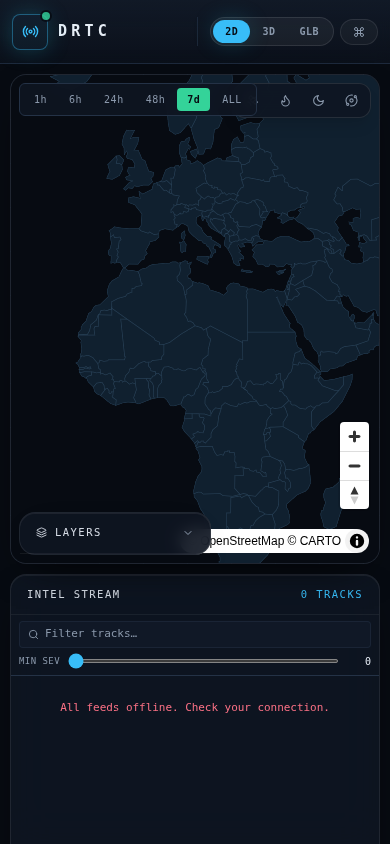
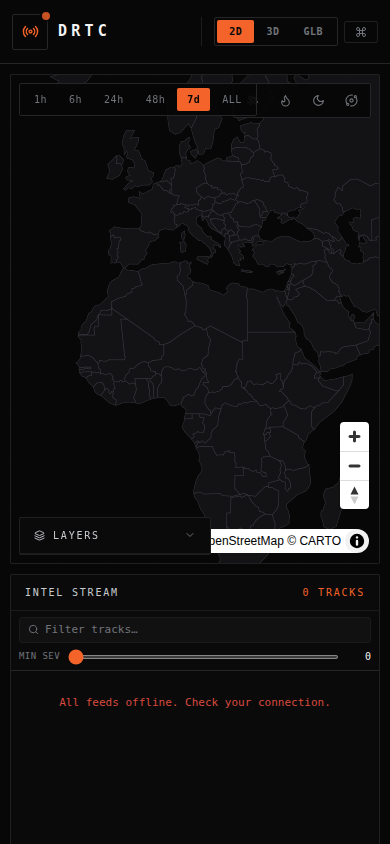
Restyle to a flat black command aesthetic (SentriX-inspired)
Style-only pass, no logic changes:
- Pure black background, flat panels with hairline borders and sharp corners
  (rounded-sm); removed the glass blur, ambient glow, and heavy shadows
- Single orange accent (#f4642a) for active controls, toggles, the time-range
  selection, and highlights; chrome is otherwise monochrome
- Neutralized the basemap (near-black land, gray borders, neutral sky/fog)
  and the popup/gauge-track colors
- Flattened controls (hairline, square, uppercase mono) and the header
  (removed gradient/glow)
- Kept functional status colors (online/offline, severity) for legibility

Verified: typecheck, lint, 33 tests, build, screenshots at 390/820/1440.

Claude-Session: https://claude.ai/code/session_014cXPwLmXUsC7GzjtSfr6jK

diff --git a/src/index.css b/src/index.css
@@ -14,26 +14,25 @@ body,
 }
 
 body {
-  background-color: #070b12;
-  /* layered ambient glow for depth */
-  background-image:
-    radial-gradient(1200px 700px at 80% -12%, rgba(56, 189, 248, 0.1), transparent 60%),
-    radial-gradient(1000px 620px at 6% 112%, rgba(52, 211, 153, 0.06), transparent 55%);
-  background-attachment: fixed;
-  color: #e6edf5;
-  font-family: -apple-system, BlinkMacSystemFont, 'SF Pro Text', 'Inter', system-ui, sans-serif;
+  background-color: #070707;
+  color: #f3f4f5;
+  font-family:
+    'Inter',
+    -apple-system,
+    BlinkMacSystemFont,
+    system-ui,
+    sans-serif;
   -webkit-font-smoothing: antialiased;
   text-rendering: optimizeLegibility;
-  letter-spacing: -0.003em;
   overflow: hidden;
 }
 
-/* Subtle grid backdrop for the map/globe stage */
+/* Faint technical grid behind the map/globe stage */
 .cmd-grid {
   background-image:
-    linear-gradient(rgba(56, 189, 248, 0.03) 1px, transparent 1px),
-    linear-gradient(90deg, rgba(56, 189, 248, 0.03) 1px, transparent 1px);
-  background-size: 44px 44px;
+    linear-gradient(rgba(255, 255, 255, 0.022) 1px, transparent 1px),
+    linear-gradient(90deg, rgba(255, 255, 255, 0.022) 1px, transparent 1px);
+  background-size: 48px 48px;
 }
 
 /* Scrollbars */
@@ -45,63 +44,55 @@ body {
   background: transparent;
 }
 *::-webkit-scrollbar-thumb {
-  background: rgba(255, 255, 255, 0.14);
-  border-radius: 999px;
+  background: rgba(255, 255, 255, 0.12);
+  border-radius: 0;
 }
 *::-webkit-scrollbar-thumb:hover {
-  background: rgba(255, 255, 255, 0.24);
+  background: rgba(255, 255, 255, 0.22);
 }
 
 *:focus-visible {
-  outline: 2px solid rgba(56, 189, 248, 0.55);
+  outline: 1px solid rgba(244, 100, 42, 0.7);
   outline-offset: 1px;
 }
 
 @layer components {
-  /* Liquid-glass surface */
+  /* Flat technical surface — pure black card with a hairline border */
   .panel {
-    @apply relative flex flex-col min-h-0 rounded-2xl;
-    background: rgba(18, 26, 40, 0.6);
-    backdrop-filter: blur(22px) saturate(150%);
-    -webkit-backdrop-filter: blur(22px) saturate(150%);
-    border: 1px solid rgba(255, 255, 255, 0.08);
-    box-shadow:
-      inset 0 1px 0 rgba(255, 255, 255, 0.07),
-      0 16px 40px -20px rgba(0, 0, 0, 0.85);
+    @apply relative flex flex-col min-h-0 rounded-sm;
+    background: #0a0a0b;
+    border: 1px solid rgba(255, 255, 255, 0.09);
   }
 
   .panel-header {
-    @apply flex items-center justify-between px-4 py-3 text-[10.5px] uppercase font-mono font-medium shrink-0;
-    letter-spacing: 0.14em;
-    color: #93a1b4;
-    border-bottom: 1px solid rgba(255, 255, 255, 0.06);
+    @apply flex items-center justify-between px-3.5 py-2.5 text-[10px] uppercase font-mono font-medium shrink-0;
+    letter-spacing: 0.18em;
+    color: #6c6f76;
+    border-bottom: 1px solid rgba(255, 255, 255, 0.07);
   }
   .panel-header > span:first-child {
     @apply flex items-center gap-2;
-    color: rgba(230, 237, 245, 0.92);
+    color: #c7cacf;
   }
 
   .stat-chip {
-    @apply font-mono text-[10px] uppercase tracking-wider px-1.5 py-0.5 rounded-md border;
+    @apply font-mono text-[10px] uppercase tracking-wider px-1.5 py-0.5 rounded-sm border;
   }
 
-  /* iOS-style pill control */
+  /* Flat hairline control */
   .ctl {
-    @apply flex items-center gap-1.5 px-3 py-1.5 rounded-full font-mono text-[11px] tracking-wide
-      text-cmd-dim transition-all duration-200;
-    border: 1px solid rgba(255, 255, 255, 0.09);
-    background: rgba(255, 255, 255, 0.04);
+    @apply flex items-center gap-1.5 px-2.5 py-1 rounded-sm font-mono text-[11px] uppercase tracking-wider
+      text-cmd-dim transition-colors duration-150;
+    border: 1px solid rgba(255, 255, 255, 0.1);
+    background: transparent;
   }
   .ctl:hover {
-    @apply text-cmd-text;
-    border-color: rgba(56, 189, 248, 0.5);
-    background: rgba(56, 189, 248, 0.1);
-  }
-  .ctl:active {
-    transform: scale(0.96);
+    color: #f3f4f5;
+    border-color: rgba(244, 100, 42, 0.6);
+    background: rgba(244, 100, 42, 0.08);
   }
 
   .glow-text {
-    text-shadow: 0 0 12px currentColor;
+    text-shadow: none;
   }
 }

diff --git a/tailwind.config.js b/tailwind.config.js
@@ -17,22 +17,22 @@ export default {
       },
       colors: {
         cmd: {
-          bg: '#070b12',
-          panel: '#0e1521',
-          panel2: '#141d2c',
-          border: '#243246',
-          grid: '#11202c',
-          text: '#e6edf5',
-          dim: '#8a98ab',
-          accent: '#38bdf8',
-          green: '#34d399',
-          amber: '#fbbf24',
-          red: '#fb7185',
-          magenta: '#e879f9',
+          bg: '#070707',
+          panel: '#0c0c0d',
+          panel2: '#161617',
+          border: '#262629',
+          grid: '#19191b',
+          text: '#f3f4f5',
+          dim: '#71747a',
+          accent: '#f4642a',
+          green: '#46a883',
+          amber: '#cf9a40',
+          red: '#d94a3d',
+          magenta: '#b8704a',
         },
       },
       boxShadow: {
-        glow: '0 0 24px -4px rgba(34,211,238,0.35)',
+        glow: '0 0 18px -6px rgba(242,90,42,0.4)',
       },
       keyframes: {
         ping2: {

diff --git a/src/components/Header.tsx b/src/components/Header.tsx
@@ -35,14 +35,14 @@ export default function Header() {
   const color = LEVEL_COLOR[threat.level]
 
   return (
-    <header className="shrink-0 h-16 flex items-center justify-between px-3 sm:px-5 border-b border-cmd-border/70 bg-gradient-to-b from-cmd-panel2/80 to-cmd-panel/60 backdrop-blur">
+    <header className="shrink-0 h-16 flex items-center justify-between px-3 sm:px-5 border-b border-cmd-border bg-cmd-bg">
       {/* Brand */}
       <div className="flex items-center gap-2.5 sm:gap-3.5 min-w-0">
         <div className="relative shrink-0">
-          <div className="w-9 h-9 rounded-lg border border-cmd-accent/40 bg-cmd-accent/5 flex items-center justify-center shadow-glow">
+          <div className="w-9 h-9 rounded-sm border border-cmd-border flex items-center justify-center">
             <Radio size={17} className="text-cmd-accent" />
           </div>
-          <span className="absolute -top-0.5 -right-0.5 w-2 h-2 rounded-full bg-cmd-green ring-2 ring-cmd-bg animate-flicker" />
+          <span className="absolute -top-0.5 -right-0.5 w-2 h-2 rounded-full bg-cmd-accent ring-2 ring-cmd-bg animate-flicker" />
         </div>
         <div className="leading-tight min-w-0">
           <div className="font-mono font-bold tracking-[0.28em] text-cmd-text text-[15px]">
@@ -61,13 +61,8 @@ export default function Header() {
             CONDITION
           </span>
           <div
-            className="flex items-center gap-2 px-3.5 py-1.5 rounded-full border font-mono"
-            style={{
-              borderColor: `${color}55`,
-              color,
-              background: `${color}14`,
-              boxShadow: `0 0 20px -6px ${color}`,
-            }}
+            className="flex items-center gap-2 px-3 py-1.5 rounded-sm border font-mono"
+            style={{ borderColor: `${color}66`, color, background: `${color}12` }}
           >
             <Activity size={13} />
             <span className="text-sm font-bold tracking-wide glow-text">
@@ -96,7 +91,7 @@ export default function Header() {
         {/* Controls */}
         <div className="flex items-center gap-1.5 sm:gap-2 border-l border-cmd-border/70 pl-3 sm:pl-5">
           {/* view toggle */}
-          <div className="flex items-center p-0.5 rounded-full border border-white/10 bg-white/5">
+          <div className="flex items-center p-0.5 rounded-sm border border-cmd-border">
             {(
               [
                 ['2d', '2D'],
@@ -110,10 +105,8 @@ export default function Header() {
                 title={
                   m === '3d' ? '3D terrain map' : m === 'globe' ? 'Stylized globe' : 'Flat map'
                 }
-                className={`px-3 py-1 rounded-full font-mono text-[10px] font-bold tracking-wider transition-all duration-200 ${
-                  viewMode === m
-                    ? 'bg-cmd-accent text-cmd-bg shadow-glow'
-                    : 'text-cmd-dim hover:text-cmd-text'
+                className={`px-3 py-1 rounded-sm font-mono text-[10px] font-bold tracking-wider transition-colors duration-150 ${
+                  viewMode === m ? 'bg-cmd-accent text-cmd-bg' : 'text-cmd-dim hover:text-cmd-text'
                 }`}
               >
                 {label}

diff --git a/src/components/MapView.tsx b/src/components/MapView.tsx
@@ -45,13 +45,13 @@ export default function MapView() {
 
     map.on('load', () => {
       map.setSky({
-        'sky-color': '#0a1420',
-        'horizon-color': '#0d1f2c',
-        'fog-color': '#070b12',
+        'sky-color': '#0c0c0e',
+        'horizon-color': '#161618',
+        'fog-color': '#070707',
         'sky-horizon-blend': 0.5,
         'horizon-fog-blend': 0.5,
         'fog-ground-blend': 0.5,
-        'atmosphere-blend': ['interpolate', ['linear'], ['zoom'], 0, 0.8, 6, 0],
+        'atmosphere-blend': ['interpolate', ['linear'], ['zoom'], 0, 0.7, 6, 0],
       })
       addDataLayers(map)
       readyRef.current = true
@@ -70,8 +70,8 @@ export default function MapView() {
         popupRef.current
           ?.setLngLat((f.geometry as GeoJSON.Point).coordinates as [number, number])
           .setHTML(
-            `<div style="font-family:'JetBrains Mono',monospace;font-size:11px;color:#d4dde8;max-width:200px">
-               <b>${p.title}</b><div style="color:#6b7c90;font-size:10px">${p.cat} · SEV ${p.sev}</div></div>`,
+            `<div style="font-family:'JetBrains Mono',monospace;font-size:11px;color:#f3f4f5;max-width:200px">
+               <b>${p.title}</b><div style="color:#71747a;font-size:10px">${p.cat} · SEV ${p.sev}</div></div>`,
           )
           .addTo(map)
       }

diff --git a/src/components/LayerLegend.tsx b/src/components/LayerLegend.tsx
@@ -21,12 +21,10 @@ export default function LayerLegend() {
   const toggle = useStore((s) => s.toggleCategory)
   // Collapsed by default on small screens so it doesn't overlap the event card
   // on a short map; expanded on the roomy desktop layout.
-  const [open, setOpen] = useState(
-    () => typeof window !== 'undefined' && window.innerWidth >= 1280,
-  )
+  const [open, setOpen] = useState(() => typeof window !== 'undefined' && window.innerWidth >= 1280)
 
   return (
-    <div className="absolute bottom-2 left-2 z-10 w-48 panel bg-cmd-panel/90 backdrop-blur">
+    <div className="absolute bottom-2 left-2 z-10 w-48 panel">
       <button
         onClick={() => setOpen((o) => !o)}
         className="panel-header w-full hover:text-cmd-text"

diff --git a/src/components/TimeRange.tsx b/src/components/TimeRange.tsx
@@ -5,16 +5,16 @@ export default function TimeRange() {
   const setTimeRange = useStore((s) => s.setTimeRange)
 
   return (
-    <div className="absolute top-2 left-2 z-10 flex items-center gap-0.5 p-1 rounded-md bg-cmd-panel/90 backdrop-blur border border-cmd-border">
+    <div className="absolute top-2 left-2 z-10 flex items-center gap-0.5 p-1 rounded-sm bg-cmd-bg/90 border border-cmd-border">
       {TIME_RANGES.map((r) => {
         const on = r.key === timeRange
         return (
           <button
             key={r.key}
             onClick={() => setTimeRange(r.key)}
-            className={`px-2.5 py-1 rounded font-mono text-[10px] tracking-wider transition-colors ${
+            className={`px-2.5 py-1 rounded-sm font-mono text-[10px] tracking-wider transition-colors ${
               on
-                ? 'bg-cmd-green text-cmd-bg font-bold'
+                ? 'bg-cmd-accent text-cmd-bg font-bold'
                 : 'text-cmd-dim hover:text-cmd-text hover:bg-cmd-panel2'
             }`}
           >

diff --git a/src/components/map/mapStyle.ts b/src/components/map/mapStyle.ts
@@ -37,13 +37,13 @@ export const STYLE: StyleSpecification = {
     world: { type: 'geojson', data: '/world.geo.json' },
   },
   layers: [
-    { id: 'bg', type: 'background', paint: { 'background-color': '#070b12' } },
-    { id: 'land', type: 'fill', source: 'world', paint: { 'fill-color': '#10202f' } },
+    { id: 'bg', type: 'background', paint: { 'background-color': '#070707' } },
+    { id: 'land', type: 'fill', source: 'world', paint: { 'fill-color': '#131315' } },
     {
       id: 'land-border',
       type: 'line',
       source: 'world',
-      paint: { 'line-color': '#274056', 'line-width': 0.5, 'line-opacity': 0.7 },
+      paint: { 'line-color': '#33333a', 'line-width': 0.5, 'line-opacity': 0.8 },
     },
     { id: 'carto', type: 'raster', source: 'carto', paint: { 'raster-opacity': 0.92 } },
     { id: 'satellite', type: 'raster', source: 'satellite', layout: { visibility: 'none' } },

diff --git a/src/components/map/MapToolbar.tsx b/src/components/map/MapToolbar.tsx
@@ -9,7 +9,7 @@ export interface MapTool {
 
 export function MapToolbar({ tools }: { tools: MapTool[] }) {
   return (
-    <div className="absolute top-2 right-2 z-10 flex items-center gap-1 p-1 rounded-xl bg-cmd-panel/85 backdrop-blur-md border border-white/10 shadow-lg">
+    <div className="absolute top-2 right-2 z-10 flex items-center gap-1 p-1 rounded-sm bg-cmd-bg/90 border border-cmd-border">
       {tools.map((t) => {
         const Icon = t.icon
         return (
@@ -17,7 +17,7 @@ export function MapToolbar({ tools }: { tools: MapTool[] }) {
             key={t.label}
             onClick={t.set}
             title={t.label}
-            className={`flex items-center gap-1.5 px-2 py-1.5 rounded-lg font-mono text-[9px] tracking-wider transition-colors ${
+            className={`flex items-center gap-1.5 px-2 py-1.5 rounded-sm font-mono text-[9px] uppercase tracking-wider transition-colors ${
               t.on ? 'bg-cmd-accent text-cmd-bg font-bold' : 'text-cmd-dim hover:text-cmd-text'
             }`}
           >
@@ -29,4 +29,3 @@ export function MapToolbar({ tools }: { tools: MapTool[] }) {
     </div>
   )
 }
-

diff --git a/src/components/AlertsOverlay.tsx b/src/components/AlertsOverlay.tsx
@@ -17,8 +17,8 @@ export default function AlertsOverlay() {
         return (
           <div
             key={a.id}
-            className="panel bg-cmd-panel/95 backdrop-blur animate-[slidein_.25s_ease-out]"
-            style={{ borderColor: '#f8717188', boxShadow: '0 0 24px rgba(248,113,113,0.25)' }}
+            className="panel animate-[slidein_.25s_ease-out]"
+            style={{ borderColor: '#d94a3d88' }}
           >
             <div className="flex items-start gap-2 p-2.5">
               <AlertTriangle size={15} className="text-cmd-red shrink-0 mt-0.5 animate-flicker" />

diff --git a/src/components/CommandPalette.tsx b/src/components/CommandPalette.tsx
@@ -94,8 +94,8 @@ export default function CommandPalette() {
       onClick={() => setOpen(false)}
     >
       <div
-        className="w-[520px] max-w-[90vw] panel border-cmd-accent/40"
-        style={{ boxShadow: '0 0 40px rgba(34,211,238,0.15)' }}
+        className="w-[520px] max-w-[90vw] panel"
+        style={{ boxShadow: '0 24px 60px -20px rgba(0,0,0,0.9)' }}
         onClick={(e) => e.stopPropagation()}
       >
         <div className="flex items-center gap-2 px-3 py-2.5 border-b border-cmd-border">

diff --git a/src/components/KeyboardHelp.tsx b/src/components/KeyboardHelp.tsx
@@ -21,8 +21,8 @@ export default function KeyboardHelp() {
       onClick={() => setOpen(false)}
     >
       <div
-        className="w-[440px] max-w-[90vw] panel border-cmd-accent/40"
-        style={{ boxShadow: '0 0 40px rgba(34,211,238,0.15)' }}
+        className="w-[440px] max-w-[90vw] panel"
+        style={{ boxShadow: '0 24px 60px -20px rgba(0,0,0,0.9)' }}
         onClick={(e) => e.stopPropagation()}
       >
         <div className="panel-header">

diff --git a/src/components/BriefOverlay.tsx b/src/components/BriefOverlay.tsx
@@ -7,7 +7,7 @@ export default function BriefOverlay() {
   const [open, setOpen] = useState(true)
 
   return (
-    <div className="absolute top-14 left-2 w-72 max-w-[40%] panel bg-cmd-panel/90 backdrop-blur z-10 border-cmd-accent/30 hidden md:flex">
+    <div className="absolute top-14 left-2 w-72 max-w-[40%] panel z-10 hidden md:flex">
       <button
         onClick={() => setOpen((o) => !o)}
         className="panel-header w-full hover:text-cmd-text transition-colors"